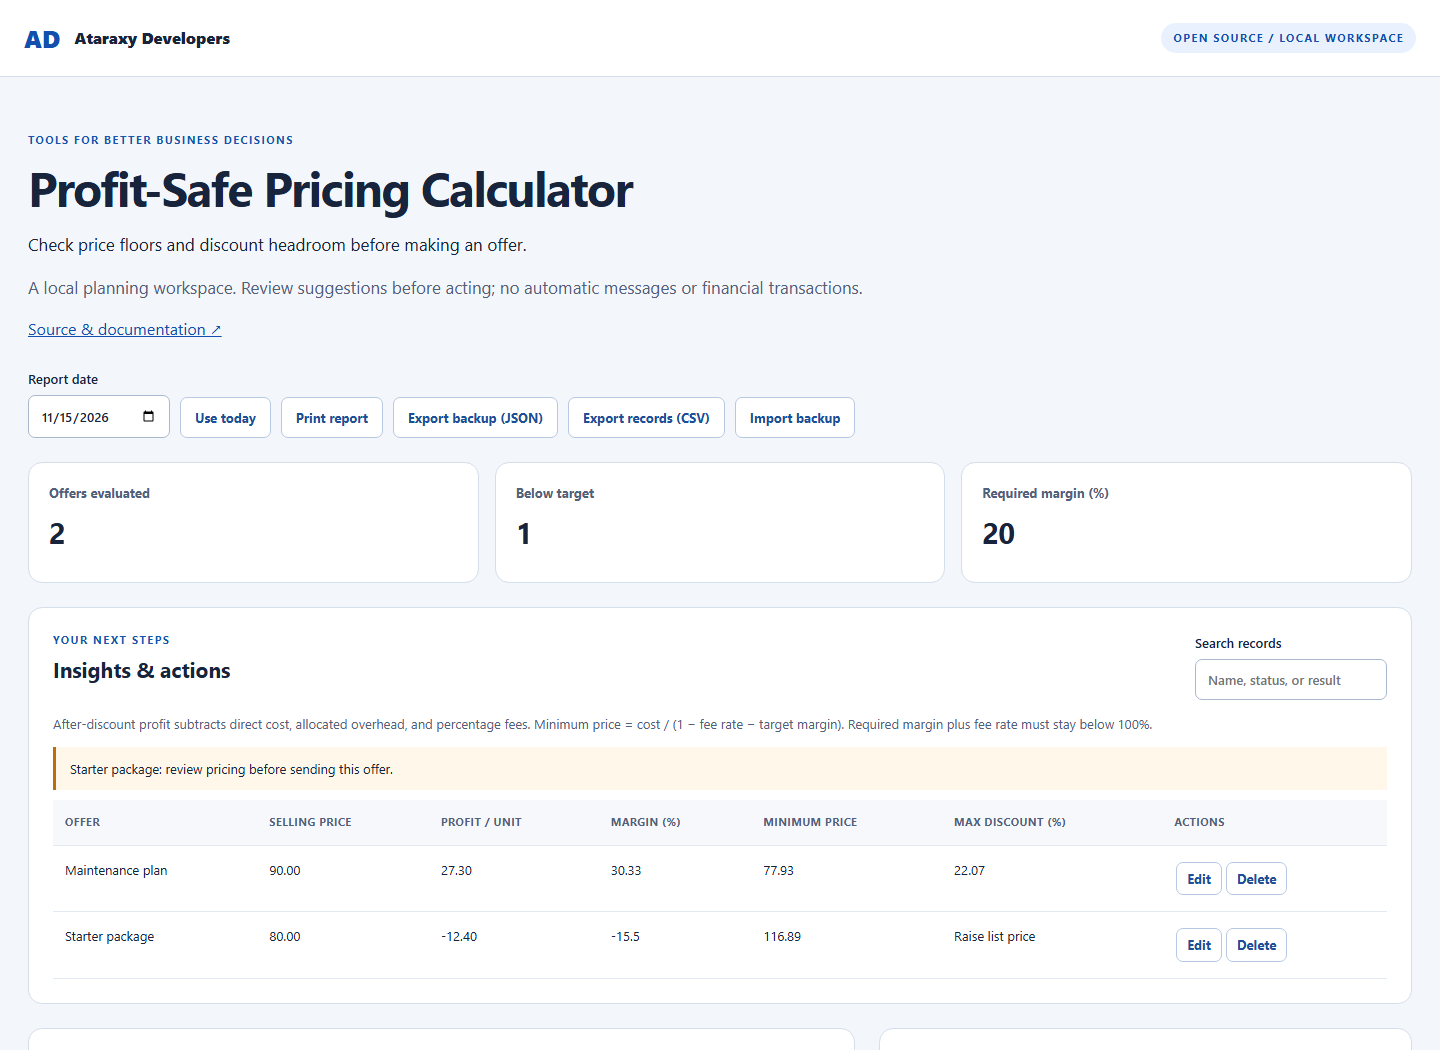
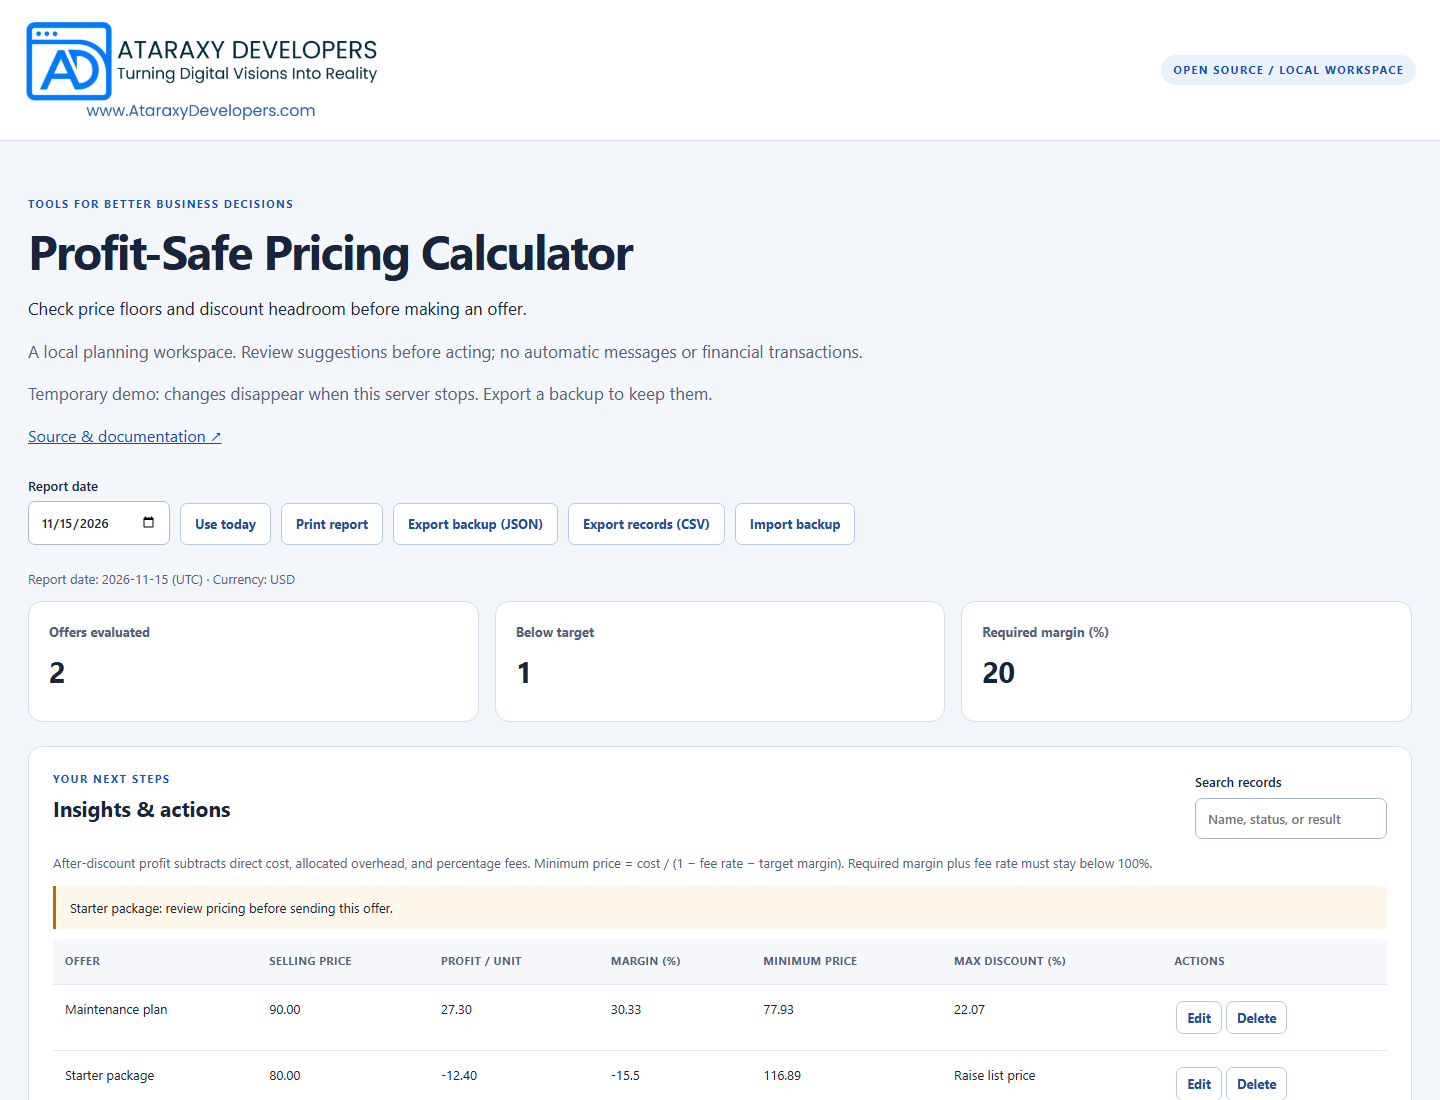
Use approved Ataraxy Developers branding

diff --git a/public/index.html b/public/index.html
@@ -4,16 +4,14 @@
     <meta charset="utf-8" />
     <meta name="viewport" content="width=device-width,initial-scale=1" />
     <title>Business workspace · Ataraxy Developers</title>
-    <link rel="icon" href="/favicon.svg" />
+    <link rel="icon" href="/ataraxy-developers-logo.png" type="image/png" />
     <link rel="stylesheet" href="/style.css" />
     <script type="module" src="/app.js"></script>
   </head>
   <body>
     <a class="skip" href="#main">Skip to workspace</a>
     <header>
-      <a class="brand" href="https://ataraxydevelopers.com"
-        >AD <span>Ataraxy Developers</span></a
-      ><span class="badge">OPEN SOURCE / LOCAL WORKSPACE</span>
+      <a class="brand" href="https://ataraxydevelopers.com"><img src="/ataraxy-developers-logo.png" alt="Ataraxy Developers — Turning Digital Visions Into Reality" width="1127" height="313" /></a><span class="badge">OPEN SOURCE / LOCAL WORKSPACE</span>
     </header>
     <main id="main">
       <section class="hero">

diff --git a/public/style.css b/public/style.css
@@ -40,10 +40,6 @@ header {
   font-weight: 800;
   text-decoration: none;
 }
-.brand span {
-  font-size: 16px;
-  color: #17243b;
-}
 .badge,
 .eyebrow {
   font-size: 11px;
@@ -364,3 +360,9 @@ footer {
     font-size: 27px;
   }
 }
+
+/* Use the complete, original company artwork without distortion. */
+header { flex-wrap: wrap; gap: 16px; background: #fff; }
+.brand { display: block; flex: 0 1 360px; min-width: 0; max-width: 100%; background: #fff; }
+.brand img { display: block; width: 360px; max-width: 100%; height: auto; }
+@media (max-width: 600px) { header { padding: 18px 20px; } .brand { flex-basis: 360px; } }

diff --git a/BRANDING.md b/BRANDING.md
@@ -1,0 +1,10 @@
+# Ataraxy Developers branding
+
+The company-approved logo is [public/ataraxy-developers-logo.png](public/ataraxy-developers-logo.png). It is the original PNG supplied by Ataraxy Developers on 2026-11-16, unchanged.
+
+- Preserve the complete artwork, its aspect ratio, and its white background.
+- Do not redraw it or substitute typed initials, an invented monogram, or generated artwork.
+- Use readable sizing and descriptive alternative text.
+- Capture screenshots from the working interface after this logo has loaded.
+
+SHA-256: 87ebc5a0092af0fff4524e805730ca3dc97c4483bd49f866528b8cdb97d422e7

diff --git a/README.md b/README.md
@@ -1,3 +1,5 @@
+<p><a href="https://ataraxydevelopers.com"><img src="public/ataraxy-developers-logo.png" alt="Ataraxy Developers — Turning Digital Visions Into Reality" width="520"></a></p>
+
 # Profit-Safe Pricing Calculator
 
 [![CI](https://github.com/AtaraxyDevelopers/profit-safe-pricing/actions/workflows/ci.yml/badge.svg)](https://github.com/AtaraxyDevelopers/profit-safe-pricing/actions/workflows/ci.yml)

diff --git a/CHANGELOG.md b/CHANGELOG.md
@@ -1,5 +1,9 @@
 # Changelog
 
+## 0.1.2 — 2026-11-16
+
+Use the original, approved Ataraxy Developers logo and document its source. Update the interface and browser icon, serve the PNG correctly, and replace the README screenshot with a capture of the corrected app.
+
 ## 0.1.1
 
 - Correct optional date defaults when adding records.
